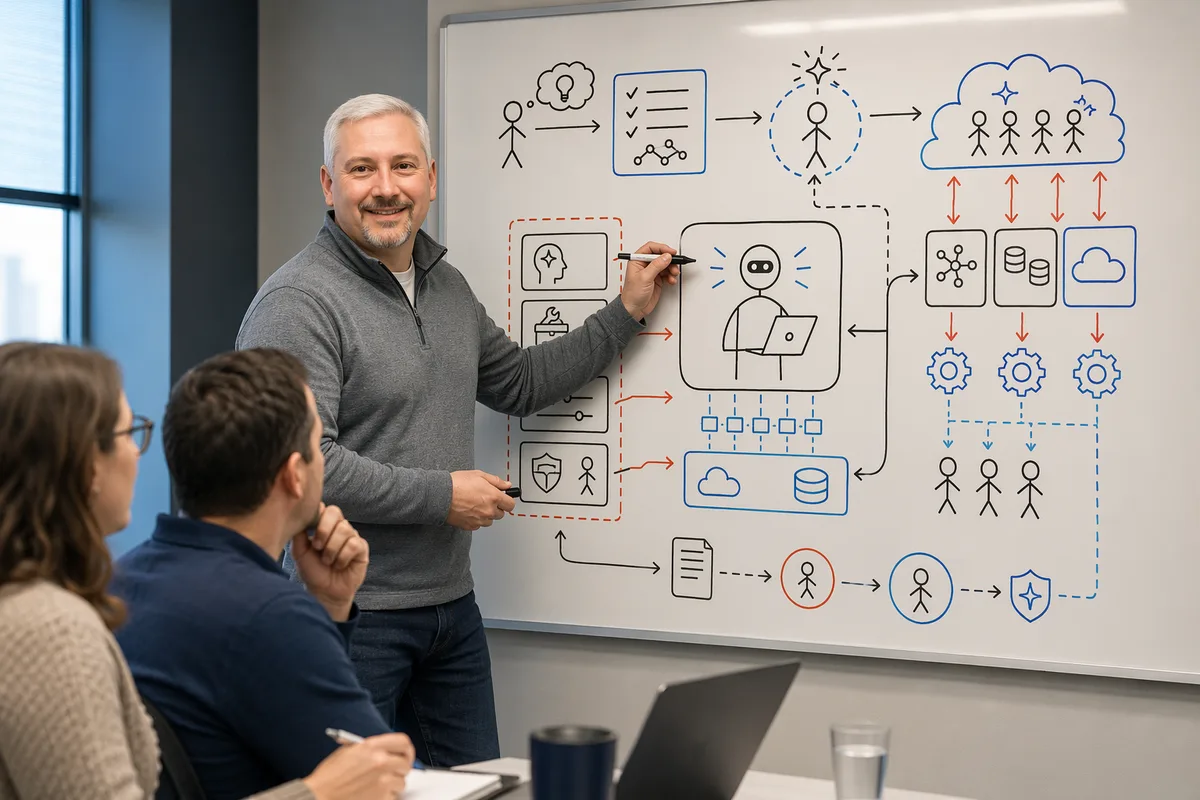
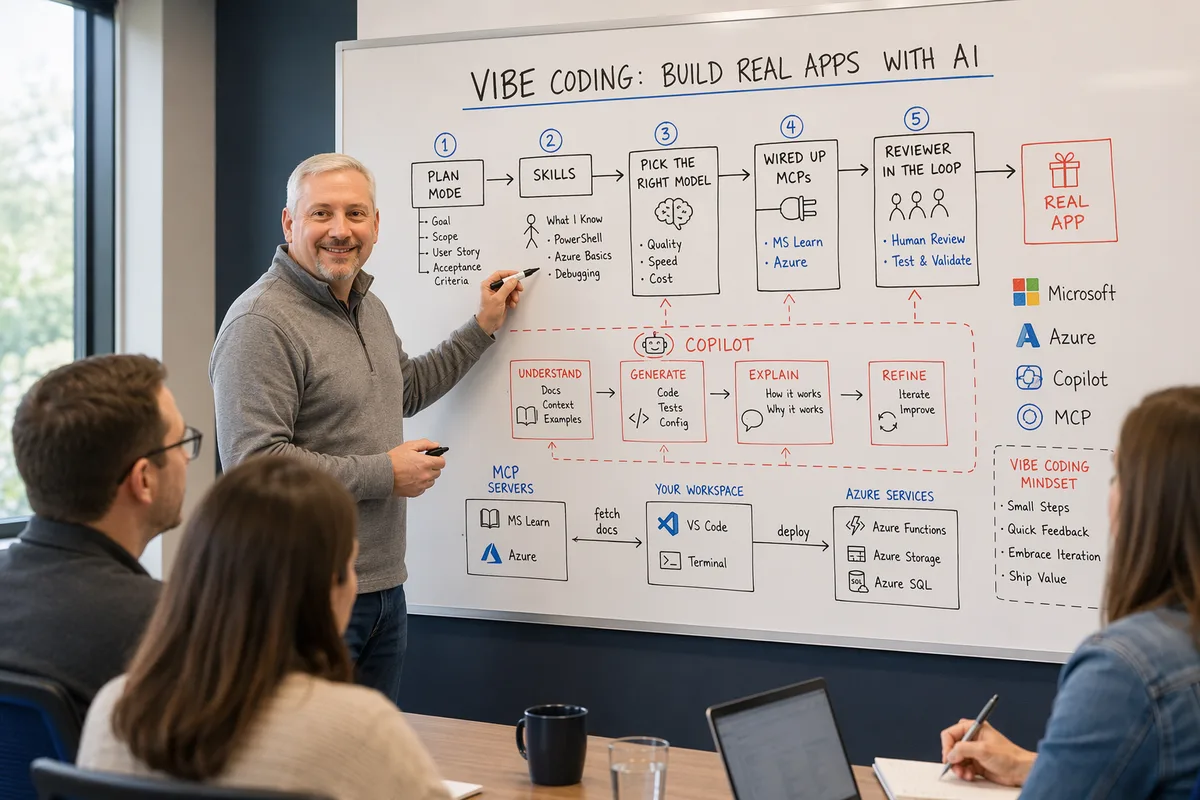
feat(hero): consolidate hero image prompt in generate-hero.mjs
Rewrites the whiteboard section of the generate-hero.mjs prompt to require hand-drawn text labels + sketched product logos (Microsoft, Azure, Copilot, GitHub, Teams, etc.) on the marker board, and adds an explicit spelling rule so labels must be real, correctly spelled words from the post's title, tags, or summary. Removes the contradictory 'no legible words, no logos' language and the 'never include Microsoft/Azure/Copilot logos anywhere' line so the prompt no longer fights itself.

Also removes the duplicate 'Hero Image Prompt Rules' section from .github/skills/blog-post/SKILL.md and updates .github/agents/technical-blog-editor.agent.md to reference scripts/generate-hero.mjs as the single source of truth. SKILL.md now only reminds authors to keep the post's title, description, and tags accurate, since the script drives the diagram content and product labels from them.

Regenerates vibe-coding-lessons.webp against the new prompt.

Copilot-Session: 9fc25707-c95d-43ae-a52c-735c23d7e333

diff --git a/.github/skills/blog-post/SKILL.md b/.github/skills/blog-post/SKILL.md
@@ -69,53 +69,22 @@ This skill helps you write compelling, well-structured blog posts that engage re
 
 8. **Edit for web readability.** Short sentences. Active voice. Bullet lists for steps. Bold key terms. Cut every word that doesn't earn its place.
 
-9. **Generate the hero image prompt.** When producing a hero image prompt for the post, follow the Hero Image Prompt Rules section below. The prompt must be tailored to the specific post — never reused verbatim — and must vary the subject's pose, expression, and setting between posts so hero images don't look interchangeable.
+9. **Ensure hero image inputs are accurate.** Hero images are generated by `scripts/generate-hero.mjs` (`npm run hero`), which owns the full image prompt. Do not hand-author a separate hero image prompt. Instead, make sure the post's `title`, `description`, and `tags` are specific and accurate — the script uses them to decide what the completed hand-drawn diagram on the whiteboard depicts and which product labels and sketched logos appear.
 
 10. **Run the Humanizer pass (required).** Before the post is done, run the `humanizer` skill (`.github/skills/humanizer/SKILL.md`) over the full draft. Strip AI-tell openers, empty transitions, marketing hype, and formulaic closes, and rewrite anything that sounds robotic into a warm, specific, human voice. A generated post is not finished until it passes the Humanizer definition of done.
 
 ## Hero Image Prompt Rules
 
-Every hero image prompt generated for a post must follow these rules. They exist so the blog's hero images feel distinct, on-topic, and visually credible — not like the same stock template with the title swapped out.
+**Source of truth: `scripts/generate-hero.mjs`.**
 
-### Markerboard (content side of the image)
-- The scene must include a **realistic markerboard** (whiteboard or glass board) whose drawing is tightly tied to this specific post's topic. Generic squiggles, gears, or "AI brain" clip art are not acceptable.
-- If the post mentions specific **brands, products, or services** (e.g., Microsoft Copilot Studio, Power Platform, Azure, Dataverse, GitHub, Copilot, VS Code, Teams, SharePoint, Dynamics 365, etc.), include the applicable **official-looking logos** on the markerboard. Place them next to the components they represent.
-- Add **hand-drawn text labels** on the markerboard identifying key components discussed in the post — e.g., topic names, action names, table names, service names, arrows between them. The labels should look like they were written by a person with a dry-erase marker: slightly uneven letters, mixed case, occasional underline or box.
-- Include marker-style connectors (arrows, boxes, brackets) that show the relationships between the labeled components, not just a collage of logos.
-- The overall board should look like something a practitioner would actually sketch while explaining the post's concept out loud — not a polished infographic.
+Hero images for this blog are generated by the `npm run hero` script (which also runs in the `generate-hero-images.yml` workflow). That script owns the full prompt: scene, wardrobe, markerboard rules, logo policy, spelling policy, everything. Do not hand-author a separate hero image prompt for a post and do not paste alternate hero rules into other skills or agents.
 
-### The person in the image
-- Vary the **pose, framing, and expression** from post to post. Do not default to the same "person standing centered, facing camera, smiling" composition every time. Rotate through options such as:
-  - Standing to one side of the board, gesturing at a labeled component.
-  - Mid-sketch with a marker in hand, writing or drawing on the board.
-  - Looking at the board (three-quarter or side profile) rather than at the camera.
-  - Seated at a nearby desk with the board behind, laptop or notebook visible.
-  - Leaning against a desk or counter with arms crossed, board visible over the shoulder.
-  - Walking past the board or stepping toward it, caught in motion.
-- Vary the **expression**: thoughtful, mid-explanation, laughing lightly, focused, mid-sentence — not always the same closed-mouth smile.
-- Vary the **camera angle and distance**: sometimes waist-up, sometimes wider environmental shots showing more of the room, sometimes closer with the board slightly out of focus behind.
-- Keep the **identity consistent** across posts (same person), but change enough of the surrounding variables that two hero images placed side by side clearly look like different moments.
+When writing a post, the only hero-image-related things to make sure are true are:
 
-### Wardrobe
-- Dress the subject in **dressy casual / business casual** attire. Think: khaki or chino pants paired with a short-sleeved collared polo shirt. A tucked or half-tucked button-down with the sleeves rolled is also acceptable when variety is needed.
-- No suits, no ties, no hoodies, no graphic tees, no branded merch.
-- Vary the **polo/shirt color** between posts (navy, forest green, charcoal, burgundy, light blue, etc.) so the wardrobe isn't identical every time. Keep the palette muted and professional.
+- The post has good `tags` in its frontmatter. The script uses the tag list to decide which products/services get labels and sketched logos on the whiteboard, so the tags should include every technology the diagram should reference (for example: `Copilot Studio`, `Power Platform`, `Azure`, `Dataverse`, `GitHub`, `VS Code`, `Teams`, `SharePoint`, `Dynamics 365`, `Foundry`, `Intune`, `Entra`).
+- The `title` and `description` are clear and specific. The script feeds them into the prompt to decide what the completed hand-drawn diagram on the whiteboard actually depicts.
 
-### Setting
-- A modern, well-lit workspace: a small office, a corner of an open workspace, or a home office. Natural window light preferred over harsh overheads.
-- Vary secondary set dressing between posts (plants, a coffee cup, a laptop, a notebook, a monitor showing a muted screen) — but keep it uncluttered. The markerboard is the visual anchor.
-
-### Style and quality
-- Photorealistic, editorial tech-blog quality. Sharp focus on the subject and readable markerboard content. Shallow depth of field is fine, but the labeled components on the board must remain legible.
-- No text artifacts on walls or shirts. No fake corporate logos on the subject's clothing. Logos appear only on the markerboard where they belong.
-
-### Prompt shape
-When emitting the hero image prompt, structure it (in prose, not bullets) so it covers, in order:
-1. Scene and camera framing (including the specific pose/angle choice for this post).
-2. Subject description, expression, and wardrobe (with the specific polo/shirt color chosen for this post).
-3. Markerboard contents: which logos appear, which components are labeled by hand, and how they connect — named explicitly from this post's content.
-4. Setting and lighting.
-5. Style descriptors (photorealistic, editorial, natural light, shallow depth of field, legible board text).
+If you need to change how hero images look (composition, wardrobe, allowed logos, spelling policy, avoid-list, and so on), edit `scripts/generate-hero.mjs` and regenerate. Never fork the prompt into this file.
 
 ## Examples
 

diff --git a/.github/agents/technical-blog-editor.agent.md b/.github/agents/technical-blog-editor.agent.md
@@ -148,7 +148,7 @@ Posts live in `src/content/blog` as `.mdx` and use this schema from `src/content
 - `description` (required): one or two precise sentences that state the value, roughly 120 to 160 characters. Not a teaser, not a duplicate of the title.
 - `pubDate` (required): publication date.
 - `updatedDate` (optional): set when meaningfully revising an existing post.
-- `heroImage` and `heroAlt` (optional): if a hero image is referenced, ensure `heroAlt` is meaningful, not decorative filler. When generating a hero image prompt for a post, follow the Hero Image Prompt Rules in `.github/skills/blog-post/SKILL.md` — every prompt must vary pose, expression, framing, and wardrobe color from prior posts, dress the subject in business casual (khakis and a short-sleeved collared polo shirt), and feature a realistic markerboard with hand-drawn labels and applicable brand/product logos tied to that specific post's content.
+- `heroImage` and `heroAlt` (optional): if a hero image is referenced, ensure `heroAlt` is meaningful, not decorative filler. Hero images are generated by `scripts/generate-hero.mjs` (`npm run hero`), which owns the full image prompt (scene, wardrobe, markerboard rules, logo and spelling policy). Do not hand-author a separate hero-image prompt in the post or in any skill — instead make sure the post's `title`, `description`, and `tags` are accurate and specific, since the script drives the diagram content and product labels from them.
 - `tags` (optional array): use existing tag names where possible for consistency; keep to a focused, relevant set rather than stuffing.
 - `draft` (boolean): keep `true` until the author is ready to publish.
 - `featured` (boolean): only the author should decide this; do not flip it without being asked.
